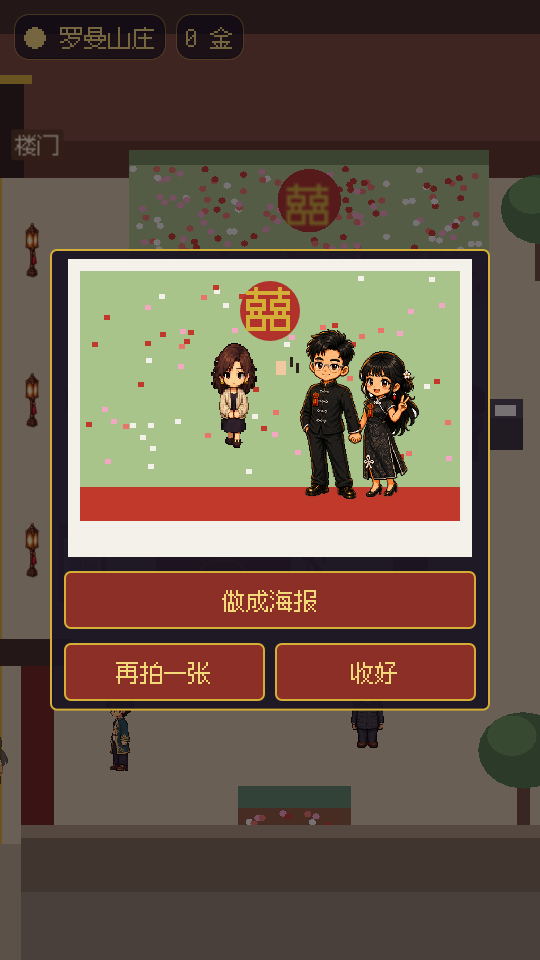
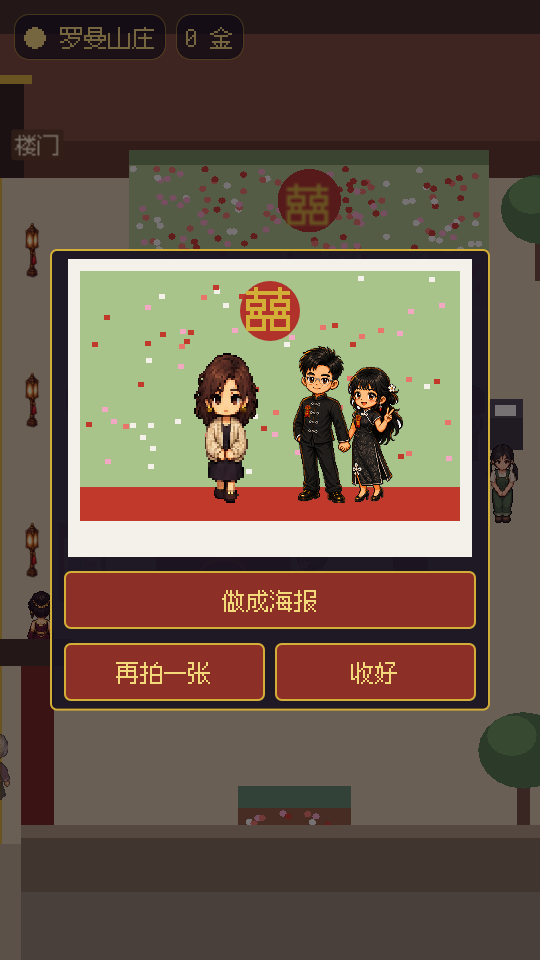
回执：海报照 04 改三处，前后对比

diff --git a/godot/回执/合影海报-回执.md b/godot/回执/合影海报-回执.md
@@ -80,3 +80,15 @@
 5. **扫码进来 `query.scene` 拿不拿得到分享人**，要真码真扫。
 6. 码的宽 280、海报上画 120，扫不扫得清待真机（`config` 标了【待验证】）。
 7. 照片里的形象、新人还是相纸那套拼法（占位）；花墙效果图到了一起换。
+
+## 04 看完改的三处（01 E 10/2，`godot/回执/体验-迎宾院第三件海报.md`）
+
+提交 `a987fd7`。对比图在 `回执/合影海报/` 下，左改前 `a54867a`、右改后：`对比-court_poster.png`、`对比-court_poster_nocode.png`。上面三张截图已换成改后的。
+
+1. **招手不画占位手**：游戏里那张、`poster.js` 自己画那张都不画了；比心那颗心照留。
+2. **新人跟自己差不多高**：按画出来的人多高摆（量图里不透明那一块），自己 150、新人 1.05 倍，脚踩同一条线；合照原图没改。
+   - `poster.js` 自己画那张也一样：导出的小图裁到人画出来的那一块。
+   - 测试量的：新人 158、自己 150。
+3. **码失败那句**：改成「海报没做好，先把照片发给朋友吧」，下面就是「发给朋友」，发的是只有照片那张。
+
+测试：客户端 48 个全过（`test_court_poster` 加两条：高矮 1.0～1.1 倍、招手没有占位手）；桥、`test_poster_js` 过。
